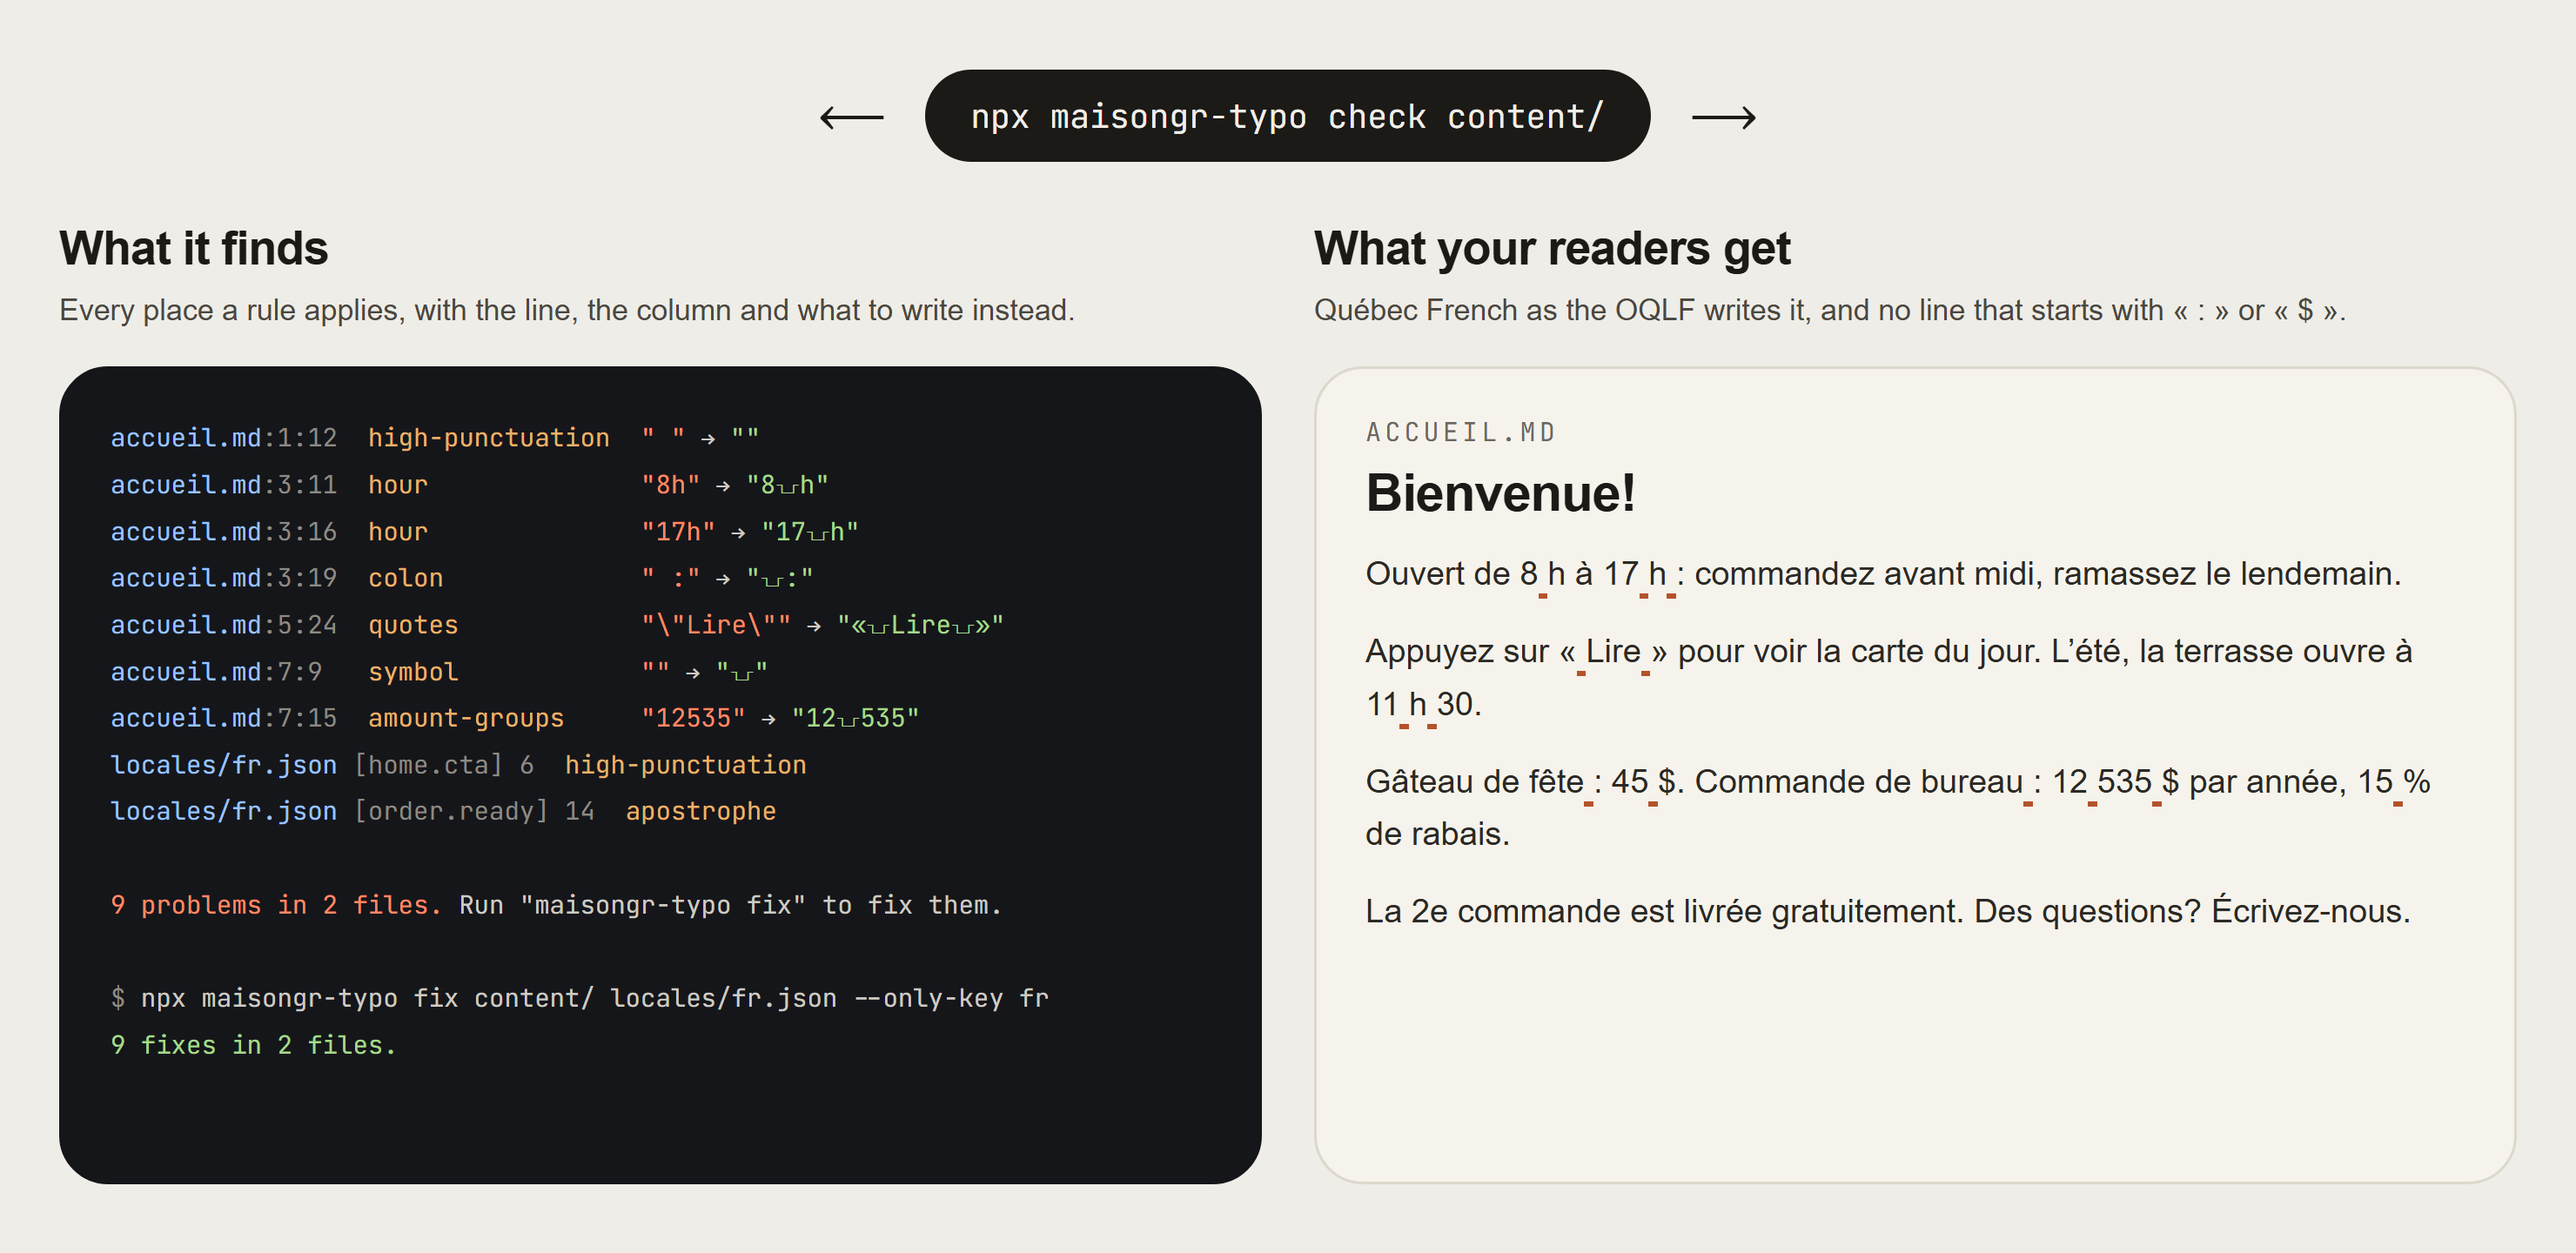
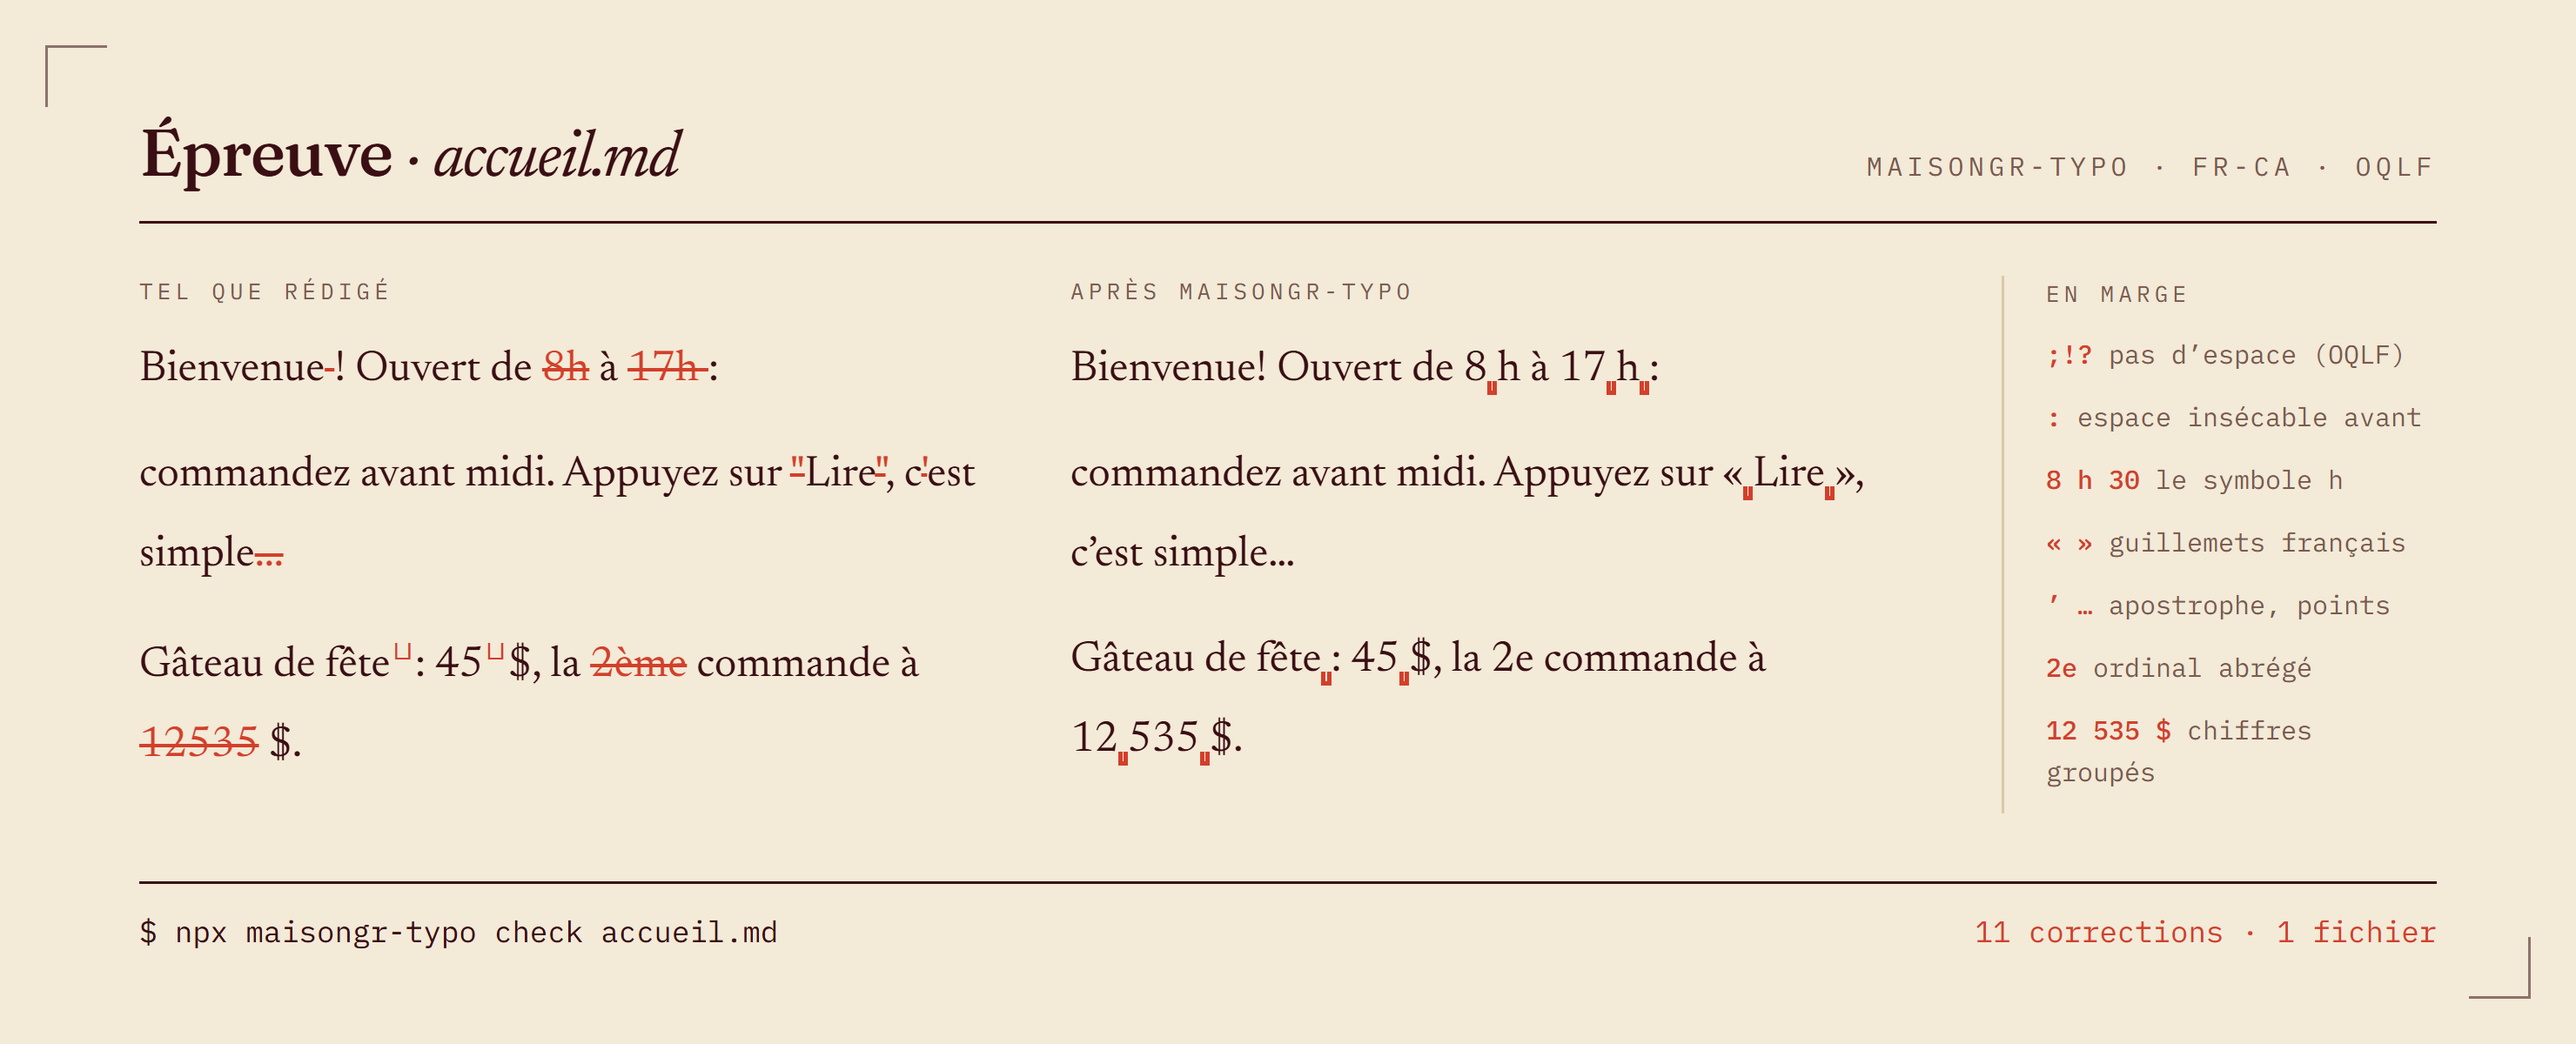
docs: the project's own images, a printer's proof in ivory and bordeaux

diff --git a/README.md b/README.md
@@ -8,7 +8,7 @@
 ![Runtime dependencies: 0](https://img.shields.io/badge/runtime_dependencies-0-1b1a17)
 ![Node 20.9+](https://img.shields.io/badge/node-%E2%89%A520.9-1b1a17)
 
-![npx maisongr-typo check content/: on the left, the report, each problem with its line, column and fix; on the right, the same French page typeset, every no-break space marked.](.github/assets/hero.png)
+![A printer's proof of accueil.md: on the left, the French text as written, with proofreader's marks on 8h, 17h, the straight quotes, 2ème and 12535; on the right, the same text after maisongr-typo, every no-break space marked in red; in the margin, the rule behind each correction. Below: npx maisongr-typo check accueil.md, 11 corrections.](.github/assets/hero.png)
 
 ```js
 import { typeset } from "maisongr-typo";
